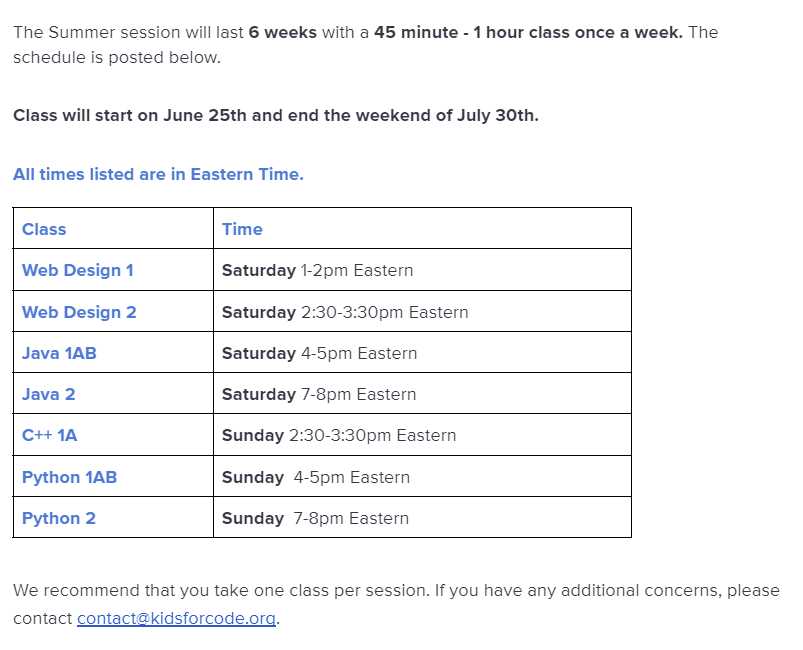
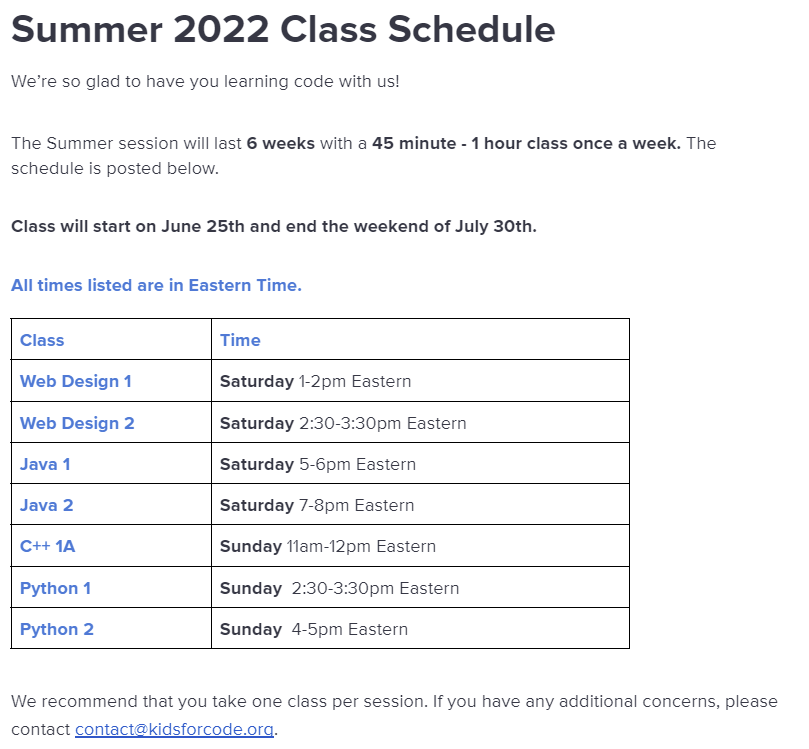
master

diff --git a/enroll/index.html b/enroll/index.html
@@ -196,10 +196,10 @@ Hope you like my source code!
 C++ 1A - Recommended age 6-14, little to no experience in coding
 Website Design (HTML/CSS) 1 - Recommended age 6-9, little to no experience in coding, slower pace than HTML 2
 Website Design (HTML/CSS) 2 - Recommended age 10 and up with no experience, or younger with experience in coding, faster pace than HTML 1
-Java 1AB - Recommended age 12 and up with no experience, or younger with experience in coding
-Java 2 - Must have completed Java 1AB or already know all Java 1AB content (curriculum on website)
-Python 1AB - Recommended age 11 and up with no experience, or younger with experience in coding
-Python 2 - Must have completed Python 1AB or already know all Python 1AB content (curriculum on website)
+Java 1 - Recommended age 12 and up with no experience, or younger with experience in coding
+Java 2 - Must have completed Java 1 or already know all Java 1 content (curriculum on website)
+Python 1 - Recommended age 11 and up with no experience, or younger with experience in coding
+Python 2 - Must have completed Python 1 or already know all Python 1 content (curriculum on website)
                 </p>
 
                 <label>Summer Session 2022 Class Times</label>
@@ -209,11 +209,11 @@ Python 2 - Must have completed Python 1AB or already know all Python 1AB content
                 <label>Which class would you like to sign up for (Max. 2 classes per session)?</label><br>
                 <h6><label>Summer Session - Weekend of June 25th to weekend of July 30th:</label></h6>
                 <input id="c++1a"     type="checkbox" name="entry.1578982446" value="C++ 1A"><label for="c++1a" class="class-name">C++ 1A</label><br>
-                <input id="web1a"     type="checkbox" name="entry.1578982446" value="Website Design (HTML/CSS) 1A"><label for="web1a" class="class-name">Website Design (HTML/CSS) 1A</label><br>
-                <input id="web1ab"    type="checkbox" name="entry.1578982446" value="Website Design (HTML/CSS) 1AB"><label for="web1ab" class="class-name">Website Design (HTML/CSS) 1AB</label><br>
-                <input id="java1ab"   type="checkbox" name="entry.1578982446" value="Java 1AB"><label for="java1ab" class="class-name">Java 1AB</label><br>
+                <input id="web1a"     type="checkbox" name="entry.1578982446" value="Website Design (HTML/CSS) 1"><label for="web1a" class="class-name">Website Design (HTML/CSS) 1</label><br>
+                <input id="web1ab"    type="checkbox" name="entry.1578982446" value="Website Design (HTML/CSS) 1"><label for="web1ab" class="class-name">Website Design (HTML/CSS) 2</label><br>
+                <input id="java1ab"   type="checkbox" name="entry.1578982446" value="Java 1"><label for="java1ab" class="class-name">Java 1</label><br>
                 <input id="java2"     type="checkbox" name="entry.1578982446" value="Java 2"><label for="java2" class="class-name">Java 2</label><br>
-                <input id="python1ab" type="checkbox" name="entry.1578982446" value="Python 1AB"><label for="python1ab" class="class-name">Python 1AB</label><br>
+                <input id="python1ab" type="checkbox" name="entry.1578982446" value="Python 1"><label for="python1ab" class="class-name">Python 1</label><br>
                 <input id="python2"   type="checkbox" name="entry.1578982446" value="Python 2"><label for="python2" class="class-name">Python 2</label><br>
             </div>
 
@@ -222,7 +222,7 @@ Python 2 - Must have completed Python 1AB or already know all Python 1AB content
                 <p style="white-space: pre-wrap">
 Hello!
 
-We are so glad you want to code with us! :) Here are the things you need to have ready before our first classes on December 18th:
+We are so glad you want to code with us! :) Here are the things you need to have ready before our first classes on June 25th:
 
 1. Know your schedule!
 
@@ -230,13 +230,13 @@ Summer Session: Class will start the weekend of June 25th and end the weekend of
 
 Web Design 1: Saturday 1-2pm ET
 Web Design 2: Saturday 2:30-3:30pm ET
-Java 1AB: Saturday 7-8pm ET
-Java 2: Sunday 1-2pm ET
-C++ 1A: Friday 7-8pm ET
-Python 1AB: Sunday  4-5pm ET
-Python 2: Sunday  7-8pm ET
+Java 1: Saturday 5-6pm ET
+Java 2: Saturday 7-8pm ET
+C++ 1A: Sunday 11am-12pm ET
+Python 1: Sunday 2:30-3:30pm ET
+Python 2: Sunday 4-5pm ET
 
-<a href="https://docs.google.com/document/d/1hKcOHStTZWOHp4wfSiJNHrLoRiv8sP_ETEnVe8IRPhI/edit?usp=sharing">Click here for the full schedule with calendar</a>
+<a href="https://docs.google.com/document/d/11wSHhLqMBSKqUgAw5mYRBjE8BWEswKpikJVfIhlTPEk/edit?usp=sharing">Click here for the full schedule with calendar</a>
 
 2. Join the Google Classrooms for the class(es) you are in!
 
@@ -246,9 +246,9 @@ Summer 2022 SESSION:
 C++ 1A: tbd
 Web Design 1: tbd
 Web Design 2: tbd
-Java 1AB: tbd
+Java 1: tbd
 Java 2: tbd
-Python 1AB: tbd
+Python 1: tbd
 Python 2: tbd
 
 

diff --git a/courses/index.html b/courses/index.html
@@ -202,28 +202,28 @@ Hope you like my source code!
                     <td>be 10 and up (or younger if taken Web Dev 1A)</td>
                 </tr>
                 <tr>
-                    <td>Java 1AB</td>
-                    <td>Saturday 4-5PM</td>
+                    <td>Java 1</td>
+                    <td>Saturday 5-6PM</td>
                     <td>be 12 and up (or younger if taken Java 1A)</td>
                 </tr>
                 <tr>
-                    <td>Java 2AB</td>
+                    <td>Java 2</td>
                     <td>Sunday 7-8PM</td>
                     <td>have taken or know all content of Java 1AB</td>
                 </tr>
                 <tr>
                     <td>C++ 1A</td>
-                    <td>Friday 2:30-3:30PM</td>
+                    <td>Sunday 11am-12PM</td>
                     <td>be 6-14</td>
                 </tr>
                 <tr>
-                    <td>Python 1A</td>
-                    <td>Sunday 4-5PM</td>
+                    <td>Python 1</td>
+                    <td>Sunday 2:30-3:30PM</td>
                     <td>be 7-10</td>
                 </tr>
                 <tr>
-                    <td>Python 2AB</td>
-                    <td>Sunday 7-8PM</td>
+                    <td>Python 2</td>
+                    <td>Sunday 4-5PM</td>
                     <td>have taken or know all content of Python 1AB</td>
                 </tr>
             </tbody>
